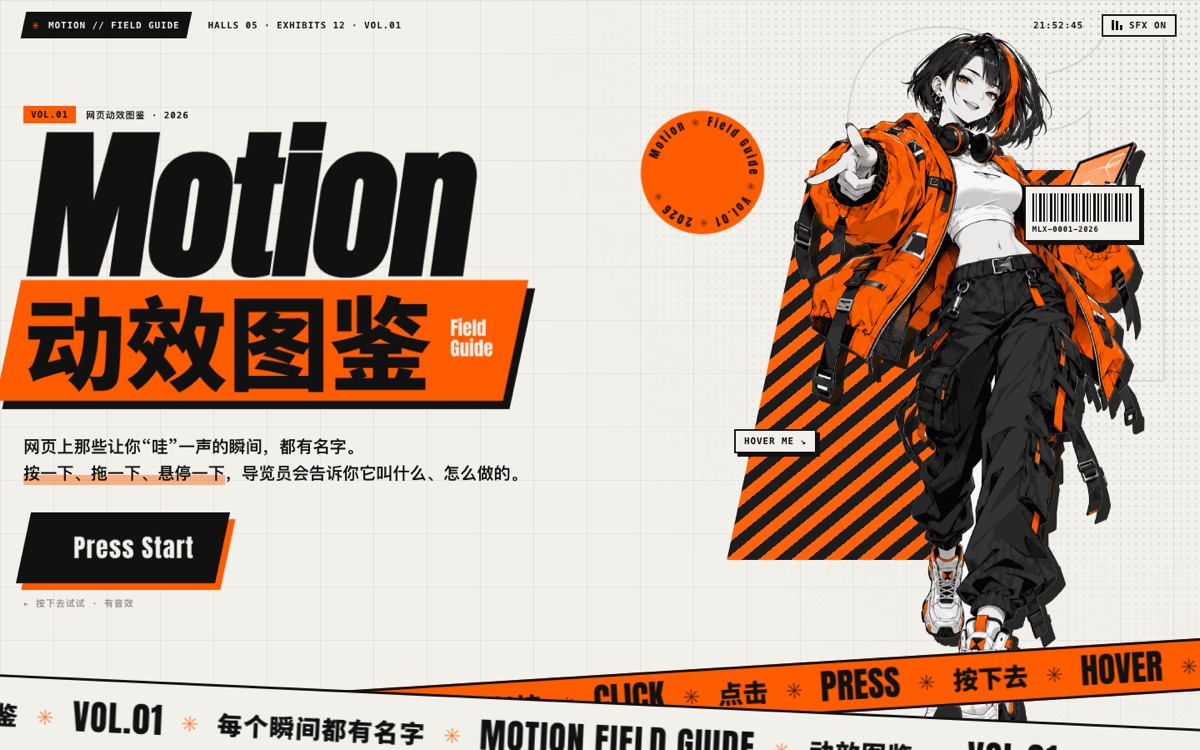
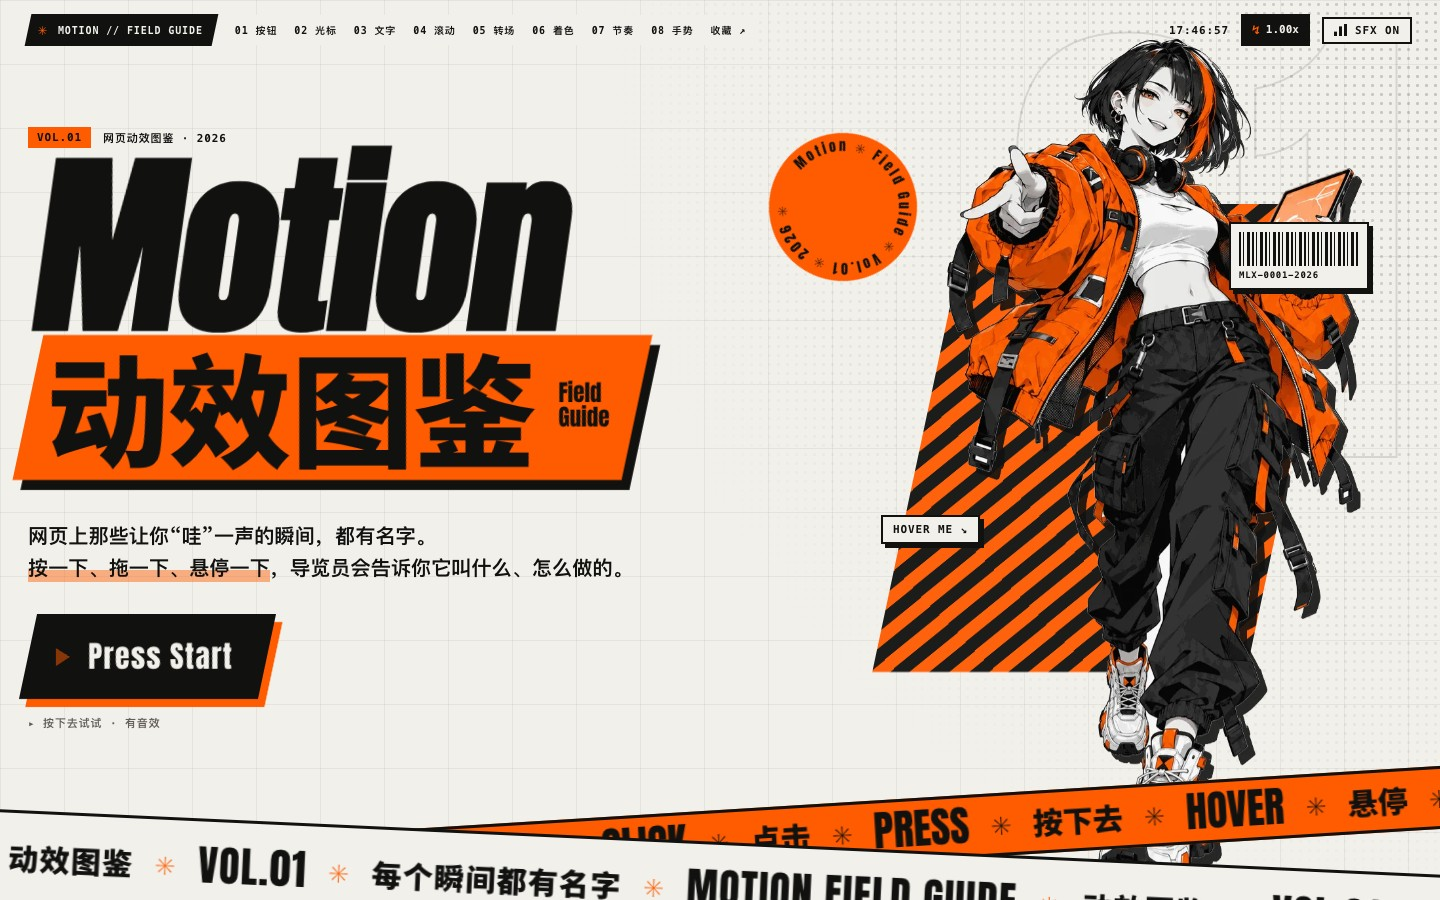
补齐前四期拆解文档，以生活比喻说明声音、节奏和性能
更新八个展厅、口令读回、A/B、慢放逐帧、分享代码与导览员表情说明，核对素材大小与优化前后数据，替换首页和节奏展厅截图。

diff --git a/README.md b/README.md
@@ -16,11 +16,14 @@
 2. [它是怎么一步步做出来的](#它是怎么一步步做出来的)
 3. [拆解首页：一张网页是一摞图层](#拆解首页一张网页是一摞图层)
 4. [拆解 9 个按钮](#拆解-9-个按钮)
-5. [素材从哪来：从一句话到一张透明立绘](#素材从哪来从一句话到一张透明立绘)
-6. [几个“看不见”的工程细节](#几个看不见的工程细节)
-7. [谁做了什么](#谁做了什么)
-8. [文件结构](#文件结构)
-9. [下一步](#下一步)
+5. [从按钮展厅到八个街区](#从按钮展厅到八个街区)
+6. [把手感说清楚，再带走](#把手感说清楚再带走)
+7. [为什么会卡，又怎么变顺](#为什么会卡又怎么变顺)
+8. [素材从哪来：从一句话到一张透明立绘](#素材从哪来从一句话到一张透明立绘)
+9. [几个“看不见”的工程细节](#几个看不见的工程细节)
+10. [谁做了什么](#谁做了什么)
+11. [文件结构](#文件结构)
+12. [下一步](#下一步)
 
 ---
 
@@ -32,7 +35,7 @@
 python3 -m http.server 3300
 ```
 
-然后用浏览器访问 `http://localhost:3300`，首页列出了所有版本。**手机和电脑都可以体验**：当前版本有八个展厅、43 件展品，支持触屏拖甩、A/B 参数对比、暂停逐帧、分享链接和独立代码导出。按钮展厅可以打开声音。第四期验收记录见 [交付报告](docs/phase4-report.md)。
+然后用浏览器访问 `http://localhost:3300`，首页列出了所有版本。**手机和电脑都可以体验**：当前版本有八个展厅、43 件展品，支持触屏拖甩、A/B 参数对比、暂停逐帧、分享链接和独立代码导出。每张卡片默认只露出“口令／工具”，手机讲解跟在卡片下面。第一次来会收到一段可跳过的导览员问候。第五期验收见 [交付报告](docs/phase5-report.md) 和 [截图目录](docs/review/phase5/README.md)。
 
 > 为什么不能直接双击 HTML 文件？大部分页面其实也能打开，但浏览器对“本地文件”有很多安全限制（比如字体、复制到剪贴板），开一个小服务器最省心。
 
@@ -40,7 +43,7 @@ python3 -m http.server 3300
 
 ## 它是怎么一步步做出来的
 
-这个项目一共试了三轮，每一轮都是“先做几个小样 → 看反馈 → 调整方向”。
+方向确定前，项目先试了三轮，每一轮都是“先做几个小样 → 看反馈 → 调整方向”。
 
 ```mermaid
 flowchart TD
@@ -102,7 +105,7 @@ flowchart TD
 ```mermaid
 flowchart LR
     P["你按下按钮"] --> V["画面变化<br/>下沉 / 涟漪 / 碎片……"]
-    P --> S["现场合成一个音效"]
+    P --> S["播放一段本地录音<br/>充能时叠上升音"]
     P --> G["导览员弹出对话框<br/>讲名字和原理"]
     G --> K["复制口令<br/>例：果冻回弹 · 速度 0.75x"]
 ```
@@ -114,22 +117,98 @@ flowchart LR
 | 03 | 填充擦除 Fill Wipe | 悬停 | 一块缩成 0 的色块，鼠标进来从左边展开，离开从右边收走 |
 | 04 | 文字翻滚 Text Roll | 悬停 | 每个字母下面藏着一个复制品，整列往上推一格，每个字母晚一点出发，形成波浪 |
 | 05 | 长按充能 Hold to Confirm | 按住 | 按住时进度条涨、音调升高，松手就漏回去，按满会爆开。专门防止手滑 |
-| 06 | 粒子爆裂 Particle Burst | 点击 | 从中心朝随机方向射出十几块碎片，每块有自己的角度、距离和旋转 |
-| 07 | 故障 Glitch | 悬停 | 同一行字复制成橙色和青色两份，每份只露出一条横带，左右错开快速切换 |
+| 06 | 粒子爆裂 Particle Burst | 点击 | 先收紧、停两三帧，再放出闪光、冲击波、火花与有重力的碎片，最后留一层淡烟 |
+| 07 | 故障 Glitch | 悬停 | 同一行字复制成橙色和米白两份，每份只露出一条横带，左右错开快速切换 |
 | 08 | 果冻回弹 Squash & Stretch | 点击 | 动画十二原则之一：先压扁再拉长，来回几次越来越小，看起来有弹性 |
 | 09 | 错误抖动 Error Shake | 点击 | 左右晃几下、幅度越来越小，同时变红，就像有人摇头说“不行” |
 
 ### 音效是怎么来的？
 
-**页面里一个音频文件都没有。** 所有声音都是浏览器自带的 Web Audio 现场“弹”出来的：
+现在的主体是 **41 个真实录音文件，总共约 323KB**，全部下载在项目里，国内访问也不用等外部音效服务器。来自 Kenney 的 [Interface Sounds](https://kenney.nl/assets/interface-sounds)、[Impact Sounds](https://kenney.nl/assets/impact-sounds) 和 [Digital Audio](https://kenney.nl/assets/digital-audio)，全部采用 CC0 许可，可商用且无需署名。逐个文件的来源与原包许可见 [音效清单](assets/sfx/LICENSES.md)。
 
-- 比喻：不是放录音，而是一台小电子琴。代码告诉它“用方波，从 150 赫兹滑到 60 赫兹，响 0.14 秒”，它就当场发出一声“咚”
-- 长按充能的声音是一个一直响着的音，音高随进度条往上爬
-- 爆炸声是一小段“沙沙”的白噪音，再叠一个往下掉的音
+- **录音加合成层**：像给电影配音，真实的“咚”和碎裂声负责质感，小电子琴负责长按时持续上升的充能音。
+- **避免复读**：同一个动作备两三种录音，像敲门时每一下都略有不同；不连续选同一个文件，再随机改变一点音高（±5%）和音量。
+- **按需加载**：像点菜后才开火，第一次交互后只准备需要的声音，不在进门时把 41 个录音全解码。
+- **静音**：像关掉收音机，正在响的录音和充能音一起停下。浏览器要求先点一下页面，声音才能开始。
 
 ### 右上角的速度档
 
-整个页面所有动画的时长都除以同一个数（`--spd`），就像**一个总开关**：调到 0.5x，所有动画一起慢一倍。你调到喜欢的手感，口令里会自动带上这个速度。
+右上角的速度数字是一扇小抽屉，点开才露出播放控制台。它像**录像机的总旋钮**：0.5x 让所有展厅一起慢一倍，0.1x 可以仔细看爆炸和回弹；暂停会停住整个页面，逐帧键每次只推进一帧。你调到喜欢的手感，口令也会记住这个速度。
+
+---
+
+## 从按钮展厅到八个街区
+
+方向确定之后，四期施工把最初的 9 个按钮扩成了 **8 个展厅、43 件展品**。第五期把界面收干净：演示仍是主角，复制口令就在名字旁边，分享、代码、A/B、讲解和感觉标签放在“工具”里。像把工作台上的扳手收进抽屉，想用时依然一伸手就拿得到。
+
+| 展厅 | 可以亲手试什么 | 生活里的比喻 |
+|---|---|---|
+| 01 按钮 · 12 件 | 按压、涟漪、充能、爆裂、果冻，以及倾斜、开关、提交状态 | 从实体按键的下沉，到拉开汽水罐的爆点，每种动作都有反馈 |
+| 02 光标 · 5 件 | 磁吸、图片拖尾、聚光灯、反色光标、墨迹 | 鼠标可以是一块磁铁、一支手电筒，也可以是一支带尾巴的画笔 |
+| 03 文字 · 5 件 | 逐字错落、乱码解码、字重波浪、遮罩填充、打字机 | 字像排队出场的演员，或逐个亮起来的路灯 |
+| 04 滚动 · 5 件 | 视差、钉住、横卷、揭示、速度形变 | 向下滚就是转动电影胶片：画面可以前进，也可以留在原地换一幕 |
+| 05 转场 · 4 件 | FLIP、共享元素、幕布、浏览器原生转场 | 家具挪位置时仍看得到它怎么走；小照片变大，像把相片拿到眼前 |
+| 06 着色器 · 4 件 | 液体扭曲、噪声溶解、流动渐变、粒子成形 | 显卡像一排同时工作的画师，每个人负责画面上的一点颜色 |
+| 07 节奏 · 4 件 | 缓动曲线、弹簧物理、时长、错落节奏 | 同一段路，先冲刺再刹车，和一路匀速走，感觉完全不同 |
+| 08 手势 · 4 件 | 惯性拖拽、边界回弹、滑卡、下拉刷新 | 推一个重箱子、拉一根橡皮筋、甩走一张纸牌，把重量与阻力放到手指上 |
+
+**爆炸为什么更有劲？** 像电影里的拳头：先有一小下蓄力，碰到时画面停两三帧，再叠闪光、扩散的环、拉长的火花、会减速下坠的碎片和最后的淡烟。长按确认还加一点屏幕微震。几层反馈踩在同一个爆点上，才会有打击感。
+
+**导览员的表情**像游戏里会回应现场的 NPC：讲原理时认真，爆炸时捂耳朵，0.1x 慢放时打哈欠，还会得意和眨眼比耶。五张立绘沿用同一个人的发型、挑染、外套和耳机；当前需要哪张才加载哪张，像演员轮到出场时才走上舞台。
+
+**X-RAY 透视**像在练习场画上轨迹线。磁场范围、目标点、剩余距离直接显示在演示里，不用靠想象理解磁吸怎么追过去。
+
+**手机着色器**像把电视调到较低分辨率：仍是同一个实时画面，只让显卡少画一些像素、少处理一些粒子。设备太慢、没有 WebGL 或打开“减少动态效果”时，就放静态预览并说明原因，页面仍能继续逛。
+
+---
+
+## 把手感说清楚，再带走
+
+![当前节奏展厅](docs/review/phase5/desktop-timing.png)
+
+“再弹一点”很有用，但不同人理解的弹并不一样。节奏展厅让这句话有了可以比较、可以恢复的数值。
+
+| 功能 | 怎么用 | 生活里的比喻 |
+|---|---|---|
+| **缓动曲线** | 五种预设与自定义曲线一起跑；拖两个控制点，也能用方向键或输入数字 | 同一段路程分配不同的油门与刹车：先快后慢，就像靠站时轻轻停住 |
+| **弹簧物理** | 调刚度与阻尼，比较软糯、干脆和果冻 | 换一根更硬的弹簧，再加一点减震器，决定弹多远、多久停下来 |
+| **时长与错落** | 比较 100 / 300 / 800ms，调一排卡片的间隔和方向 | 一个决定每位演员走多快，另一个决定他们隔多久依次上台 |
+| **A/B 对比** | 在工具里把当前参数存为 A，继续调出 B，两组同时播放 | 试鞋时两只脚各穿一双，差别能直接感觉出来，不必靠记忆 |
+| **暂停与逐帧** | 打开右上角控制台；空格暂停，暂停后按 `.` 前进一帧 | 像拆电影镜头，能停在蓄力、定格、冲击波和落地的任一阶段 |
+| **口令读回** | 复制口令，粘到收藏页的输入框里 | 一张配方卡，记住展品、速度、曲线、参数和 A/B 两套配置；再拿回来照着做 |
+| **分享链接** | 工具里点分享，另一个人打开就恢复参数并定位展品 | 给朋友寄一张已经调好座椅和后视镜的试驾券，打开就是同一份手感 |
+| **拿走代码** | 工具里点代码，预览后复制或下载独立 HTML | 把一道菜的完整小食谱带走，HTML、CSS、JS 都在里面，不用安装其他材料 |
+| **感觉索引** | 在收藏页选“弹”“有重量”等标签，找它们的交集 | 不知道菜名，也能先说“想吃酸甜的”，再从符合口味的菜里挑 |
+
+例如 `弹簧物理 Spring｜速度 0.75x｜刚度 250 · 阻尼 7 · 质量 1`，既是一句能读懂的话，也是一张能还原的配方。调错了参数，输入框会说明问题，已有手感不会被改到一半。
+
+---
+
+## 为什么会卡，又怎么变顺
+
+页面变长以后，卡顿不一定是某一个效果复杂，更可能是**所有房间同时开灯、同时工作**。第三期先用 Chrome 时间线测量，再做优化；第四期加手势与 A/B 后复测，第五期继续复测并保留原始记录。
+
+| 测量场景 | 第三期优化前 → 优化后 | 这意味着什么 |
+|---|---|---|
+| 全页匀速滚动 | 59.60 → 59.97fps；掉帧 12 → 1；大于 50ms 的长任务 1 → 0 | 每秒 60 张画面基本按时送到，滚动时少了突然停顿 |
+| 首屏连续移动鼠标 | 56.84 → 60.00fps；掉帧 19 → 0 | 立绘和贴纸跟手移动时，不再频繁漏掉画面 |
+| 全页滚动的强制布局 | 3,795 → 96 次 | 少了“刚挪完家具，马上又拿尺子量房间”的反复折腾 |
+
+这些数字来自本机 Chrome、60Hz、1440×900、无 CPU 节流。它们用来比较同一台机器的前后版本，不能保证每一部手机都有相同帧率。详细口径见 [第三期报告](docs/phase3-report.md)、[第四期报告](docs/phase4-report.md) 和 [第五期报告](docs/phase5-report.md)。
+
+| 做了什么 | 生活里的比喻 | 为什么更顺 |
+|---|---|---|
+| **统一帧调度器** `frame.js` | 一位总指挥打拍子，每位乐手跟着同一只节拍器 | 所有动效共用一个时钟，暂停、慢放和逐帧也能一起走 |
+| **离屏暂停** | 离开房间就关灯，回来才继续演示 | 看不到的 Canvas、WebGL 和展厅循环不再白忙 |
+| **缓存尺寸、集中测量** | 先量好房间，再搬家具；房间大小变了才重测 | 减少读尺寸与写样式交错造成的布局抖动 |
+| **只移动图层** | 移动一张画好的贴纸，胜过每次重新画一张 | 导览员的硬阴影烘焙进图片，动画尽量只改变位置和透明度 |
+| **限制画布分辨率** | 小屏幕不必搬来电影院的胶片 | 高 DPI 不再让画布按无限倍像素工作，手机着色器使用 DPR 1 |
+| **跳过离屏排版** | 尚未走到的展厅先保留占地位置，不急着摆好展品 | `content-visibility` 让浏览器少排版、少重绘 |
+| **提前解码、按需取货** | 图片在到达下一个展厅前拆好包装，工具等要用时才取 | 缓解进门时的突然忙碌，也缩短首屏等待 |
+
+首次开启声音仍可能有一次音频设备冷启动，像音响第一次通电需要热机；报告保留这次开销，没有在测量前偷偷提前打开声音。
+
+第五期给首屏做了“减重”：透明立绘改为 WebP，手机图约 72KB；首屏中文单独装进约 32KB 的小字库，逛展时再取其余字；首屏样式直接写在入口里，其余展厅样式与工具分批加载。像出门先带车票和钥匙，大行李等到站再取。手机慢网、冷缓存的 Lighthouse 性能分从 **74 提升到 92**，首个内容从 2.4 秒到 1.9 秒，最大内容从 6.6 秒到 3.2 秒。像进门先拿到地图、马上看见导览员，后面的工具不必一起挤在门口；完整测量条件与原始记录见 [第五期报告](docs/phase5-report.md)。
 
 ---
 
@@ -157,7 +236,7 @@ flowchart LR
 
 | 细节 | 比喻 | 效果 |
 |---|---|---|
-| **字体子集化**：中文粗体字库只保留页面用到的 361 个字 | 搬家只带要用的书，不搬整个图书馆 | 17MB → 60KB |
+| **字体子集化**：中文粗体只保留当前页面用到的字，再拆成首屏与展厅两份 | 搬家只带要用的书，不搬整个图书馆 | 完整字库约 10MB → 首屏约 32KB + 展厅约 112KB |
 | **字体本地托管**：不依赖 Google 字体服务 | 自己家里备一份，不用每次去邻居家借 | 国内也能稳定显示 |
 | **数据驱动的展品**：名字、原理、代码、参数都写在一张表里 | 菜单和厨房分开：换菜单不用拆厨房 | 加新展品只要往表里加一行 |
 | **透视模式**（第一轮原型里的磁吸、拖尾）：一键画出磁场范围、目标点、剩余距离 | 给效果拍 X 光 | 原理不靠文字讲，直接画给你看 |
@@ -188,16 +267,22 @@ motion-lexicon/
 │   ├── b-dark.html       # 第一轮 B：暗场聚光
 │   ├── c-poster.html     # 第一轮 C：海报冲击
 │   ├── shared.js         # 第一轮共用的展品引擎（磁吸、拖尾、透视、口令）
-│   └── shared.css
+│   ├── shared.css
+│   └── c3/              # 展厅模块、统一时钟、声音、工具与分享
 ├── assets/
 │   ├── city-web/         # 导览员立绘（已抠图、压缩）
 │   ├── ink-web/          # 水墨图层
 │   ├── web/              # 《凝固的瞬间》摄影风素材（拖尾用）
-│   └── fonts/            # 子集化后的字体
+│   ├── fonts/            # 子集化后的字体
+│   └── sfx/              # 41 个 CC0 本地音效与来源许可
 ├── tools/
 │   ├── cutout.py         # 白底抠透明
-│   └── build-artifact.py # 打包成单页发布
-└── docs/images/          # 这份 README 用到的图
+│   ├── build-artifact.py # 打包成单页发布
+│   ├── motion-trace.mjs  # 用浏览器时间线复测帧率与布局
+│   └── phase5-*.mjs     # 跨浏览器、无障碍与截图验收（依赖装在项目外）
+└── docs/
+    ├── images/           # 这份 README 用到的图
+    └── review/phase5/    # 最新截图、Lighthouse 与跨浏览器检查
 ```
 
 ---
@@ -216,4 +301,5 @@ motion-lexicon/
 
 - 代码：MIT
 - 字体：Anton、Noto Sans SC、Zhi Mang Xing 均为 [SIL Open Font License](https://openfontlicense.org)，这里只包含子集
+- 音效：Kenney，CC0 1.0；来源与原包许可见 [音效清单](assets/sfx/LICENSES.md)
 - 插画和角色立绘：由 AI 生成，为本项目原创
